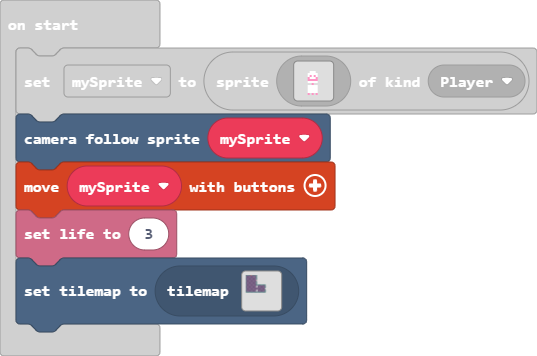
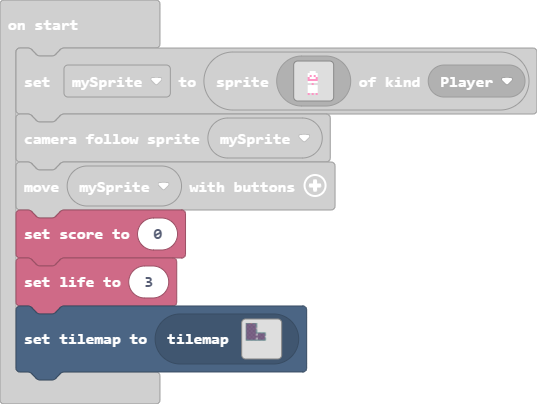
Update main.blocks, main.ts

Changed region(s): [[0.0298, 0.0927, 1.0, 0.9579], [0.0, 0.0309, 0.149, 0.0927], [0.0298, 0.8961, 0.0596, 0.927]]

diff --git a/main.ts b/main.ts
@@ -18,6 +18,7 @@ let mySprite = sprites.create(img`
     `, SpriteKind.Player)
 scene.cameraFollowSprite(mySprite)
 controller.moveSprite(mySprite)
+info.setScore(0)
 info.setLife(3)
 tiles.setCurrentTilemap(tilemap`Test Arena`)
 game.onUpdate(function () {
